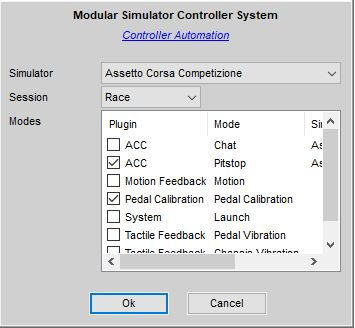
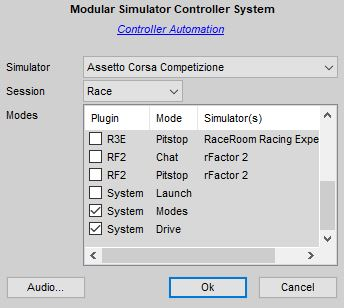
Selectable audio routing

diff --git a/Docs/Using Simulator Controller.md b/Docs/Using Simulator Controller.md
@@ -366,7 +366,11 @@ There is also the possibility to trigger actions in Simulator Controller from ot
 
 ### Audio Routing
 
-Simulator Controller allows you to direct sound output (for example the voices of the different Race Assistants) to different audio devices, as long as the additional software [SoX](http://sox.sourceforge.net/) is installed and configured. This is mainly of interest to those of you, who are streaming their races, or when you want maximum immersion by directing car sound to a 5.1 sound system, but the assistant voices to your headphone. Since this if not of widespread use, there is no user interface to configure this. Instead, a simple text file is used. If you want to configure your audio routing, create a text file with the name "Audio Settings.ini" and place it in the *Simulator Controller\Config* folder which is located in your user *Documents* folder. Open it with a text editor and enter the following content:
+Simulator Controller allows you to direct sound output (for example the voices of the different Race Assistants) to different audio devices, as long as the additional software [SoX](http://sox.sourceforge.net/) is installed and configured. This is mainly of interest to those of you, who are streaming their races, or when you want maximum immersion by directing car sound to a 5.1 sound system, but the assistant voices to your headphone. To configure the audio routes, click on the "Audio..." button in the "Controller Automation" window.
+
+![](https://github.com/SeriousOldMan/Simulator-Controller/blob/main/Docs/Images/Automation%20Editor%202.JPG)
+
+Audio routes must be defined as follows:
 
 	[Output]
 	Driving Coach.AudioDevice=Headphone
@@ -384,7 +388,7 @@ Supported output routes are:
 | Race Engineer   | All voice output by the Race Engineer.                                                                               |
 | Race Strategist | All voice output by the Race Strategist.                                                                             |
 | Conversation    | The short sound that indicates that an answer is given by the *Conversation* booster.                                |
-| Reasoning       | The short sound that indicates that a given behavior is triggered by the *Reasoning* booster.                       |
+| Reasoning       | The short sound that indicates that a given behavior is triggered by the *Reasoning* booster.                        |
 | Controller      | The short acknowledge sound, when the Controller itself received a voice command or was activated for voice control. |
 | Analyzer        | The feedback sound of the Issue Analyzer for over- or understeer handling events.                                    |
 
@@ -418,6 +422,20 @@ First you **have to identify** the default audio input device, which should be a
 All other input routes are typically set to the same input device, normally the microphone of your headset. Don't be confused here, because, similar to the output settings shown above, you only have to enter those audio devices, which differ from the default audio device. Please note, that changing the input audio device is only supported when the additional software [NirCmd](https://www.nirsoft.net/utils/nircmd.html) is installed and configured.
 
 A final note here: Make sure, that all your audio devices are named differently, even when they belong to the same type of equipment, for example a headset. Otherwise you will have unwanted effects. Example: Name the speakers of your headset "HeadsetSpeaker" and the microphone of your headset "HeadsetMic" in your Windows sound settings. Doing this you can activate them seperately.
+
+#### Activating audio routes by simulation and active session
+
+Additionally, it is possible to select audio routes depending on the currently running simulation and/or the active session. This can be helpful, if you are normally driving using a VR headset, but want to use your 5.1 sound system while outside a session to interact with the Driving Coach, for example.
+
+To create such a specific set of audio routes, precede the settings with "[Output.Le Mans Ultimate.Race]", for example. This will activate these settings, when you are in a race session in *Le Mans Ultimate* (works for *Input* as well, of course). The following session types are supported:
+
+	Other
+	Practice
+	Qualifying
+	Race
+	Time Trial
+	
+You can use an asterisk ("*") for the simulation and also for the session type, which then acts as a wildcard. If no match for the current simulator and session type is found, the default "[Output]" or "[Input]" settings are used. If they are also not configured, the current devices of Windows are used.
 
 ### Keyboard shortcuts & modifiers
 

diff --git a/Docs/Releases.md b/Docs/Releases.md
@@ -35,14 +35,19 @@
 
 #### Fixes
 
-  - None this time...
+  - Fixed some additional problems for team races in *Le Mans Ultimate*.
   
 #### Changes
 
+  - Car numbers should now be displayed correctly in team races for *Le Mans Ultimate*.
+  - Integrated team names in data for *Asseto Corsa Competizione* and *Le Mans Ultimate*. However, no display in the UI yet.
   - The Engineer now announces a tyre change incl. compound and color.
   - The calculation of lap count of used tyre sets as shown in the list on the first page of "Solo Center" has been optimized for simulators where no tyre set information is available or when single tyres have been chenged at the last pitstop.
+  - The number of usable laps per tyre compound is now included in the knowledge for the LLM for the Race Engineer and the Race Strategist. Either the active strategy or the active race rules from "Race Settings" are used. If these are not activated, the value of the [setting "Pitstop: Tyre Compound Usage"](https://github.com/SeriousOldMan/Simulator-Controller/wiki/Session-Settings) from the "Session Database" is used.
   - The *Reasoning* booster for the Race Strategist supports a new [event for strategy simulation](https://github.com/SeriousOldMan/Simulator-Controller/wiki/Customizing-Assistants#race-strategist). Together with the also new counterpart action "Strategy Update", this event, if enabled, will route the request to simulate a strategy and possibly updating the existing strategy to the LLM together with all available data about the session and car state, as well as a complete description of the currently active strategy. The LLM, acting as a LAM (aka large action model) in this case, may come up with a better strategy than the internal rule engine. But please note, that strategy simulation is the most thinkable complex reasoning task and running a strategy simulation therefore requires a very capable reasoning model like GPT-5 or Claude Sonnet 4.5. And even with these models, the request fails in some cases.
   - The ELMS LMP2 car is now identified as "Oreca 07 ELMS" to distinguish it from the normal "Oreca 07" car in *Le Mans Ultimate*. If you already have recorded some data with this splendid fast car, take a look at the [Update Notes](https://github.com/SeriousOldMan/Simulator-Controller/wiki/Update-Notes#release-660).
+  - The editor for Controller Automation is now resizeable.
+  - It is now possible to configure multiple different audio routes depending on the currently running simulator and/or the current session type (race, qualifying and so on). See the [updated documentation](https://github.com/SeriousOldMan/Simulator-Controller/wiki/Using-Simulator-Controller#audio-routing) for more information.
 
 Please also take a look at the [Update Notes](https://github.com/SeriousOldMan/Simulator-Controller/wiki/Update-Notes#release-660), if you already have driven the faster Oreca 07 in the ELMS series and you want to remove the wrong data from the Oreca 07 data set.
 

diff --git a/README.md b/README.md
@@ -49,7 +49,7 @@ Please read the [Release Notes](https://github.com/SeriousOldMan/Simulator-Contr
 
 #### Latest development build
 
-[6.6.0.0-dev](https://fileshare.impresion3d.pro/filebrowser/api/public/dl/O7vc4LTp) (Early build for 6.6.0. Changes: Optimized tyre set documentation in "Solo Center", Renamed Agent action "update_strategy" to "recommend_strategy" for Race Strategist, New internal Agent action "simulate_strategy" for Race Strategist, New internal Agent action "update_strategy" for Race Strategist, New instructions for the *Reasoning* booster of the Race Strategist, Engineer announces tyre compound with color, Identify "Oreca 07 ELMS" car in LMU.)
+[6.6.0.0-dev](https://fileshare.impresion3d.pro/filebrowser/api/public/dl/O7vc4LTp) (Early build for 6.6.0. Changes: Optimized tyre set documentation in "Solo Center", Renamed Agent action "update_strategy" to "recommend_strategy" for Race Strategist, New internal Agent action "simulate_strategy" for Race Strategist, New internal Agent action "update_strategy" for Race Strategist, New instructions for the *Reasoning* booster of the Race Strategist, Engineer announces tyre compound with color, Identify "Oreca 07 ELMS" car in LMU, Fixed some bugs in LMU team races, Switchable audio modes depending on simulator and session, Resizeable controller automation window.)
 
 Please read the [Release Notes](https://github.com/SeriousOldMan/Simulator-Controller/wiki/Release-Notes#6600) and - sometimes even more important - the release specific [Update Notes](https://github.com/SeriousOldMan/Simulator-Controller/wiki/Update-Notes#release-660) of this version and all the versions you might have skipped, before installing and using this version.
 

diff --git a/Docs/Customizing Assistants.md b/Docs/Customizing Assistants.md
@@ -289,12 +289,14 @@ Here is an example of the knowledge supplied by the Race Engineer to the LLM:
 				{
 					"Compound": "Dry (Black)",
 					"Sets": 99,
-					"Weather": [ "Dry", "Drizzle" ]
+					"Weather": [ "Dry", "Drizzle" ],
+					"Usable": "40 Laps"
 				},
 				{
 					"Compound": "Wet (Black)",
 					"Sets": 99,
-					"Weather": [ "LightRain", "MediumRain", "HeavyRain", "Thunderstorm" ]
+					"Weather": [ "LightRain", "MediumRain", "HeavyRain", "Thunderstorm" ],
+					"Usable": "40 Laps"
 				}
 			]
 		},
@@ -331,13 +333,17 @@ Here is an example of the knowledge supplied by the Race Engineer to the LLM:
 					"RearRight": "26.1 PSI"
 				}
 			},
-			"Temperatures": {
-				"Current": {
-					"FrontLeft": "84.4 Celsius",
-					"FrontRight": "73.4 Celsius",
-					"RearLeft": "88.2 Celsius",
-					"RearRight": "78.6 Celsius"
-				}
+			"Wear": {
+				"FrontLeft": "6.2 %",
+				"FrontRight": "4.8 %",
+				"RearLeft": "6.4 %",
+				"RearRight": "5.0 %"
+			},
+			"Laps": {
+				"FrontLeft": 6,
+				"FrontRight": 6,
+				"RearLeft": 6,
+				"RearRight": 6
 			}
 		},
 		"Weather": {
